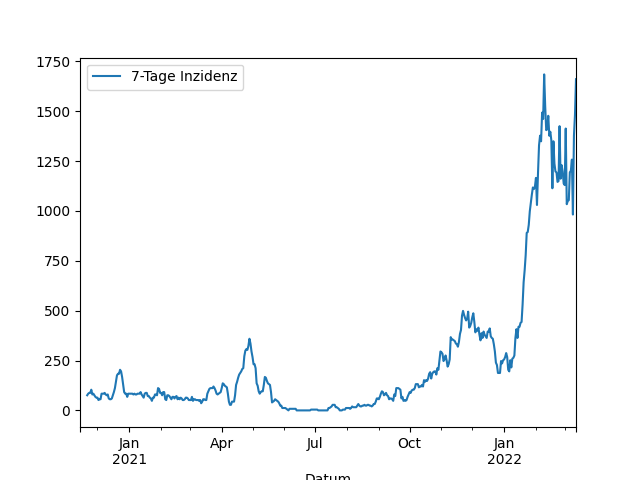
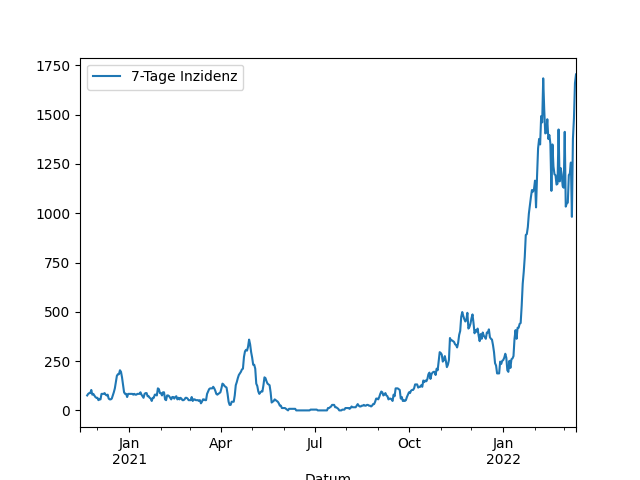
Update images

diff --git a/_includes/aktuelle_inzidenz.md b/_includes/aktuelle_inzidenz.md
@@ -1,1 +1,1 @@
-1660,5
+1704,5
